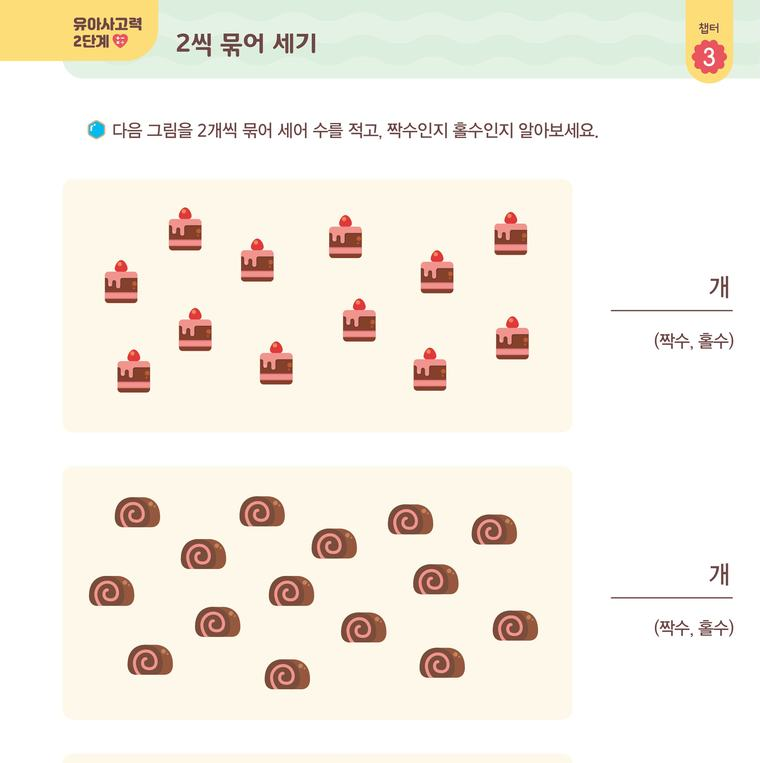
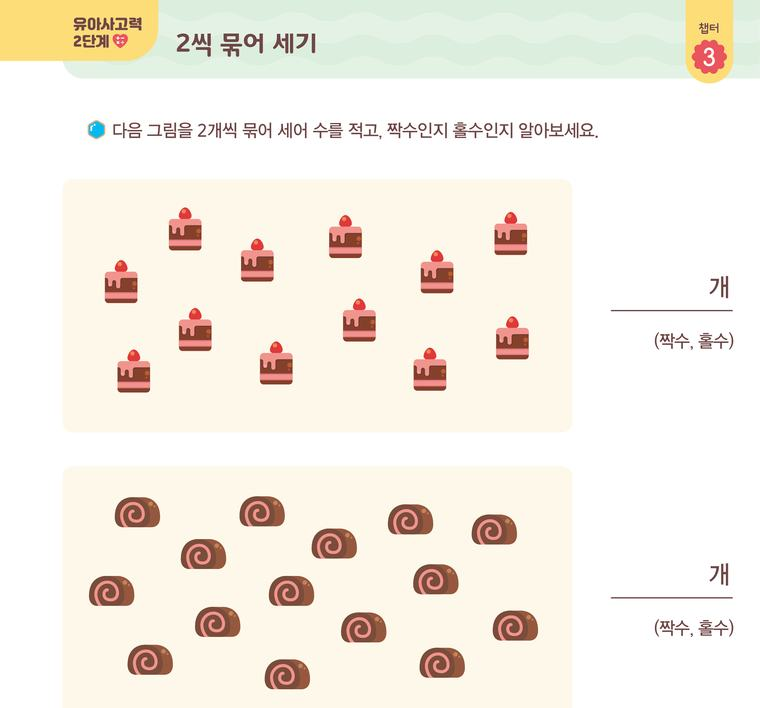
설문변경 완료

diff --git a/dalcom-level-survey/src/config/survey.config.ts b/dalcom-level-survey/src/config/survey.config.ts
@@ -71,7 +71,7 @@ export const CHOICE_QUESTIONS: ChoiceQuestion[] = [
   {
     id: 3,
     type: 'choice',
-    title: '사고력 문제를 풀거나 새로운 활동을 시작할 때',
+    title: '사고력 문제를 스스로 읽고 이해해 풀 수 있나요?',
     scoreB: 1,
     images: [
       {
@@ -89,7 +89,7 @@ export const CHOICE_QUESTIONS: ChoiceQuestion[] = [
   {
     id: 4,
     type: 'choice',
-    title: '규칙이 있는 게임을 할 때',
+    title: '규칙이 있는 게임을 잘 할 수 있나요?',
     scoreB: 1,
     images: [
       {
@@ -112,7 +112,7 @@ export const CHOICE_QUESTIONS: ChoiceQuestion[] = [
   {
     id: 5,
     type: 'choice',
-    title: '수를 20에서부터 거꾸로 세어 내려갈 수 있다.',
+    title: '수를 20에서부터 거꾸로 세어 내려갈 수 있나요?',
     scoreB: 2,
     images: [
       {
@@ -130,7 +130,7 @@ export const CHOICE_QUESTIONS: ChoiceQuestion[] = [
   {
     id: 6,
     type: 'choice',
-    title: '한 자리 수의 연산을 천천히 할 수 있다.',
+    title: '한 자리 수의 연산을 천천히 할 수 있나요?',
     scoreB: 2,
     images: [
       {
@@ -148,7 +148,7 @@ export const CHOICE_QUESTIONS: ChoiceQuestion[] = [
   {
     id: 7,
     type: 'choice',
-    title: '두 개씩 묶어 셀 수 있다.',
+    title: '두 개씩 묶어 셀 수 있나요?',
     scoreB: 2,
     images: [
       {
@@ -166,7 +166,7 @@ export const CHOICE_QUESTIONS: ChoiceQuestion[] = [
   {
     id: 8,
     type: 'choice',
-    title: '더해서 10이 되는 두 수를 말할 수 있다.',
+    title: '더해서 10이 되는 두 수를 말할 수 있나요?',
     scoreB: 2,
     images: [
       {
@@ -184,7 +184,7 @@ export const CHOICE_QUESTIONS: ChoiceQuestion[] = [
   {
     id: 9,
     type: 'choice',
-    title: '수의 크기를 비교할 수 있다.',
+    title: '수의 크기를 비교할 수 있나요?',
     scoreB: 2,
     images: [
       {
@@ -202,7 +202,7 @@ export const CHOICE_QUESTIONS: ChoiceQuestion[] = [
   {
     id: 10,
     type: 'choice',
-    title: '수를 단순히 읽는 것을 넘어 ‘양’으로 이해할 수 있다.',
+    title: '수를 단순히 읽는 것을 넘어 ‘양’으로 이해할 수 있나요?',
     scoreB: 2,
     images: [
       {

diff --git a/dalcom-level-survey/README.md b/dalcom-level-survey/README.md
@@ -125,8 +125,8 @@ dalcom-level-survey/
 
 수·연산 6문항은 서술문 + `아직 어려워해요 / 할 수 있어요` 형식입니다.
 
-이미지는 `public/images/` 에 있고 가로 폭은 모두 **760px** 으로 같습니다.
-6·8·9번은 활동 장면이 세로로 길어 높이가 조금 더 깁니다.
+이미지는 `public/images/` 에 있고 모두 **760 × 708** 로 크기가 같습니다.
+(6번 유아2 p21 이미지 높이를 기준으로 맞췄습니다)
 확대 보기 기능은 넣지 않았습니다. 모바일에서 화면을 벌려 확대하면 충분히 보입니다.
 
 `survey.config.ts` 의 각 문항에 `images: [...]` 로 지정합니다.
